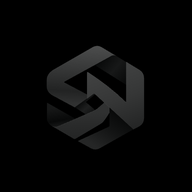
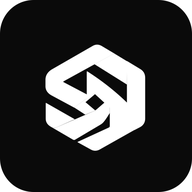
publish: sync mit main @ 735161d (CI)

diff --git a/kontakt.html b/kontakt.html
@@ -5,9 +5,9 @@
 <meta name="viewport" content="width=device-width, initial-scale=1">
 <meta name="theme-color" content="#000000">
 <meta name="robots" content="noindex,follow">
-<meta name="description" content="Contact SuperIntelNex: send a message with name, email, and reason. No tracking, no external services.">
+<meta name="description" content="Contact SuperIntelNex: choose a topic (general, appointment, or partnership), add your name, email, and a message. No tracking, no external services.">
 <meta name="color-scheme" content="dark">
-<link rel="icon" href="superintelnex-sn-anthrazit.svg" type="image/svg+xml">
+<link rel="icon" href="superintelnex-sn-tab.svg" type="image/svg+xml">
 <link rel="icon" href="icon-192.png" type="image/png" sizes="192x192">
 <link rel="icon" href="icon-512.png" type="image/png" sizes="512x512">
 <link rel="apple-touch-icon" href="apple-touch-icon.png">
@@ -46,6 +46,14 @@
   input,textarea{width:100%;border:1px solid var(--line);background:#0A0A0A;color:var(--ink);padding:12px 14px;font:15px var(--serif);min-height:46px;border-radius:0}
   textarea{resize:vertical;min-height:118px}
   input::placeholder,textarea::placeholder{color:var(--muted)}
+  .topics{display:grid;gap:8px}
+  .topic{display:flex;align-items:center;gap:12px;border:1px solid var(--line);padding:12px 14px;cursor:pointer;position:relative}
+  .topic::before{content:"";position:absolute;inset:-6px;z-index:-1}
+  .topic:hover{border-color:#ffffff66}
+  .topic input{width:18px;height:18px;flex:none;accent-color:var(--ink);margin:0;cursor:pointer}
+  .topic-name{font-size:15px;font-weight:600}
+  .topic-desc{display:block;color:var(--muted);font-size:13px;margin-top:2px}
+  .topic:has(input:checked){border-color:var(--ink)}
   .submit{min-height:48px;border:1px solid var(--ink);background:var(--ink);color:var(--bg);font:600 14px var(--serif);letter-spacing:.02em;padding:12px;cursor:pointer;transition:background .2s,color .2s}
   .submit:hover{background:transparent;color:var(--ink)}
   .submit:disabled{opacity:.4;cursor:default}
@@ -96,11 +104,20 @@
     <div class="content">
       <p class="eyebrow" data-de="Kontakt">Contact</p>
       <h1 data-de="Kontakt">Contact</h1>
-      <p class="lede" data-de="Anfrage senden: Name, E-Mail und Grund. Die Nachricht öffnet Ihr E-Mail-Programm — es werden keine Daten an Server übertragen und nichts protokolliert.">Send a message: name, email, and reason. Your email app opens with the message ready to send — no data is transmitted to any server and nothing is logged.</p>
+      <p class="lede" data-de="Anfrage senden: Name, E-Mail, Betreff (Allgemein, Termin oder konkreter Grund) und Nachricht. Die Nachricht öffnet Ihr E-Mail-Programm — es werden keine Daten an Server übertragen und nichts protokolliert.">Send a message: your name, email, subject (general, appointment, or a specific reason), and a note. Your email app opens with the message ready to send — no data is transmitted to any server and nothing is logged.</p>
       <form id="contact-form" novalidate>
         <label for="f-name"><span class="label" data-de="Ihr Name">Your name</span> <span class="req" aria-hidden="true">*</span><input id="f-name" name="name" type="text" autocomplete="name" required data-de-ph="Ihr Name" placeholder="Your name"></label>
         <label for="f-email"><span class="label" data-de="Ihre E-Mail">Your email</span> <span class="req" aria-hidden="true">*</span><input id="f-email" name="email" type="email" autocomplete="email" required data-de-ph="ihre@adresse.com" placeholder="you@example.com"></label>
-        <label for="f-topic"><span class="label" data-de="Grund">Reason</span> <span class="req" aria-hidden="true">*</span><textarea id="f-topic" name="topic" required data-de-ph="Worum geht es?" placeholder="What is this about?"></textarea></label>
+        <div role="radiogroup" aria-labelledby="lg-topic">
+          <span id="lg-topic" class="label" data-de="Betreff">Subject</span>
+          <div class="topics">
+            <label class="topic"><input type="radio" name="subject" value="allgemein" checked><span class="topic-name" data-de="Allgemein">General</span><span class="topic-desc" data-de="Allgemeine Anfrage oder Rückmeldung">General inquiry or feedback</span></label>
+            <label class="topic"><input type="radio" name="subject" value="termin"><span class="topic-name" data-de="Termin">Appointment</span><span class="topic-desc" data-de="Terminanfrage: Call, Vorstellungs- oder Abnahmetermin">Request a call, demo, or review appointment</span></label>
+            <label class="topic"><input type="radio" name="subject" value="grund"><span class="topic-name" data-de="Grund">Specific reason</span><span class="topic-desc" data-de="Konkreter Grund: Partnerschaft, Feedback, Medien, Support">Partnership, feedback, media, or support</span></label>
+          </div>
+        </div>
+        <label id="f-date-wrap" for="f-date" hidden><span class="label" data-de="Gewünschter Termin (optional)">Preferred date (optional)</span><input id="f-date" name="date" type="date"></label>
+        <label for="f-topic"><span class="label" data-de="Nachricht">Message</span> <span class="req" aria-hidden="true">*</span><textarea id="f-topic" name="topic" required data-de-ph="Worum geht es?" placeholder="What is this about?"></textarea></label>
         <button type="submit" class="submit" data-de="Nachricht vorbereiten">Prepare message</button>
       </form>
       <p class="note" data-de="Hinweis: Über diese Seite werden keine personenbezogenen Daten erhoben oder gespeichert — die Nachricht wird ausschließlich lokal in Ihrem E-Mail-Programm aufbereitet.">Note: No personal data is collected or stored through this page — the message is prepared exclusively in your own email app.</p>
@@ -144,6 +161,18 @@
   const TO_B64 = 'c3VwZXJpbnRlbG5leEBnbWFpbC5jb20=';
   const form = document.getElementById('contact-form');
   const done = document.querySelector('.done');
+  const dateWrap = document.getElementById('f-date-wrap');
+  const subjectLabels = {
+    allgemein: { de: 'Allgemein', en: 'General' },
+    termin: { de: 'Termin', en: 'Appointment' },
+    grund: { de: 'Konkreter Grund', en: 'Specific reason' }
+  };
+  function syncDateField() {
+    const isAppointment = form.querySelector('input[name="subject"]:checked').value === 'termin';
+    dateWrap.hidden = !isAppointment;
+  }
+  form.addEventListener('change', syncDateField);
+  syncDateField();
   form.addEventListener('submit', (e) => {
     e.preventDefault();
     if (!form.checkValidity()) { form.reportValidity(); return; }
@@ -151,13 +180,23 @@
     const name = String(data.get('name') || '').trim();
     const email = String(data.get('email') || '').trim();
     const topic = String(data.get('topic') || '').trim();
+    const subjectKey = String(data.get('subject') || 'allgemein');
+    const date = String(data.get('date') || '').trim();
     const lang = language === 'de' ? 'DE' : 'EN';
-    const subject = lang === 'DE' ? 'Kontaktanfrage — SuperIntelNex' : 'Contact inquiry — SuperIntelNex';
-    const body = ['Name: ' + name, 'E-Mail: ' + email, '', topic, '', 'Via superintelnex.com/kontakt.html'].join('\n');
+    const langKey = language === 'de' ? 'de' : 'en';
+    const subjectName = (subjectLabels[subjectKey] || subjectLabels.allgemein)[langKey];
+    const subject = lang === 'DE'
+      ? 'Kontaktanfrage — ' + subjectName + ' — SuperIntelNex'
+      : 'Contact inquiry — ' + subjectName + ' — SuperIntelNex';
+    const lines = ['Name: ' + name, 'E-Mail: ' + email,
+      lang === 'DE' ? 'Betreff: ' + subjectName : 'Subject: ' + subjectName];
+    if (subjectKey === 'termin' && date) lines.push(lang === 'DE' ? 'Gewünschter Termin: ' + date : 'Preferred date: ' + date);
+    lines.push('', topic, '', 'Via superintelnex.com/kontakt.html');
     const target = atob(TO_B64);
-    window.location.href = 'mailto:' + target + '?subject=' + encodeURIComponent(subject) + '&body=' + encodeURIComponent(body);
+    window.location.href = 'mailto:' + target + '?subject=' + encodeURIComponent(subject) + '&body=' + encodeURIComponent(lines.join('\n'));
     done.classList.add('show');
     form.reset();
+    syncDateField();
     done.scrollIntoView({ behavior: 'smooth', block: 'center' });
   });
 })();

diff --git a/index.html b/index.html
@@ -6,7 +6,7 @@
 <meta name="theme-color" content="#0A0A0A">
 <meta name="description" content="SuperIntelNex is a community token project in development with a long-term vision for AI, superintelligence, and digital payments.">
 <title data-de="SuperIntelNex">SuperIntelNex</title>
-<link rel="icon" href="superintelnex-sn-anthrazit.svg" type="image/svg+xml">
+<link rel="icon" href="superintelnex-sn-tab.svg" type="image/svg+xml">
 <link rel="icon" href="icon-192.png" type="image/png" sizes="192x192">
 <link rel="icon" href="icon-512.png" type="image/png" sizes="512x512">
 <link rel="apple-touch-icon" href="apple-touch-icon.png">

diff --git a/datenschutz.html b/datenschutz.html
@@ -7,7 +7,7 @@
 <meta name="robots" content="noindex,follow">
 <meta name="description" content="SuperIntelNex privacy statement: no cookies, no tracking, no external fonts, no server-side contact form.">
 <meta name="color-scheme" content="dark">
-<link rel="icon" href="superintelnex-sn-anthrazit.svg" type="image/svg+xml">
+<link rel="icon" href="superintelnex-sn-tab.svg" type="image/svg+xml">
 <link rel="icon" href="icon-192.png" type="image/png" sizes="192x192">
 <link rel="icon" href="icon-512.png" type="image/png" sizes="512x512">
 <link rel="apple-touch-icon" href="apple-touch-icon.png">

diff --git a/impressum.html b/impressum.html
@@ -7,7 +7,7 @@
 <meta name="robots" content="noindex,follow">
 <meta name="description" content="Imprint of SuperIntelNex: project in development, not investment advice.">
 <meta name="color-scheme" content="dark">
-<link rel="icon" href="superintelnex-sn-anthrazit.svg" type="image/svg+xml">
+<link rel="icon" href="superintelnex-sn-tab.svg" type="image/svg+xml">
 <link rel="icon" href="icon-192.png" type="image/png" sizes="192x192">
 <link rel="icon" href="icon-512.png" type="image/png" sizes="512x512">
 <link rel="apple-touch-icon" href="apple-touch-icon.png">

diff --git a/404.html b/404.html
@@ -7,7 +7,7 @@
 <meta name="robots" content="noindex,follow">
 <meta name="description" content="SuperIntelNex — page not found.">
 <meta name="color-scheme" content="dark">
-<link rel="icon" href="superintelnex-sn-anthrazit.svg" type="image/svg+xml">
+<link rel="icon" href="superintelnex-sn-tab.svg" type="image/svg+xml">
 <link rel="icon" href="icon-192.png" type="image/png" sizes="192x192">
 <link rel="icon" href="icon-512.png" type="image/png" sizes="512x512">
 <link rel="apple-touch-icon" href="apple-touch-icon.png">

diff --git a/whitepaper.html b/whitepaper.html
@@ -9,7 +9,7 @@
 <meta property="og:image" content="https://superintelnex.com/og-image.png">
 <meta property="og:url" content="https://superintelnex.com/whitepaper.html">
 <title>SuperIntelNex (SIN) — Whitepaper</title>
-<link rel="icon" href="superintelnex-sn-anthrazit.svg" type="image/svg+xml">
+<link rel="icon" href="superintelnex-sn-tab.svg" type="image/svg+xml">
 <script>
 /* theme first, before first paint */
 (function(){
